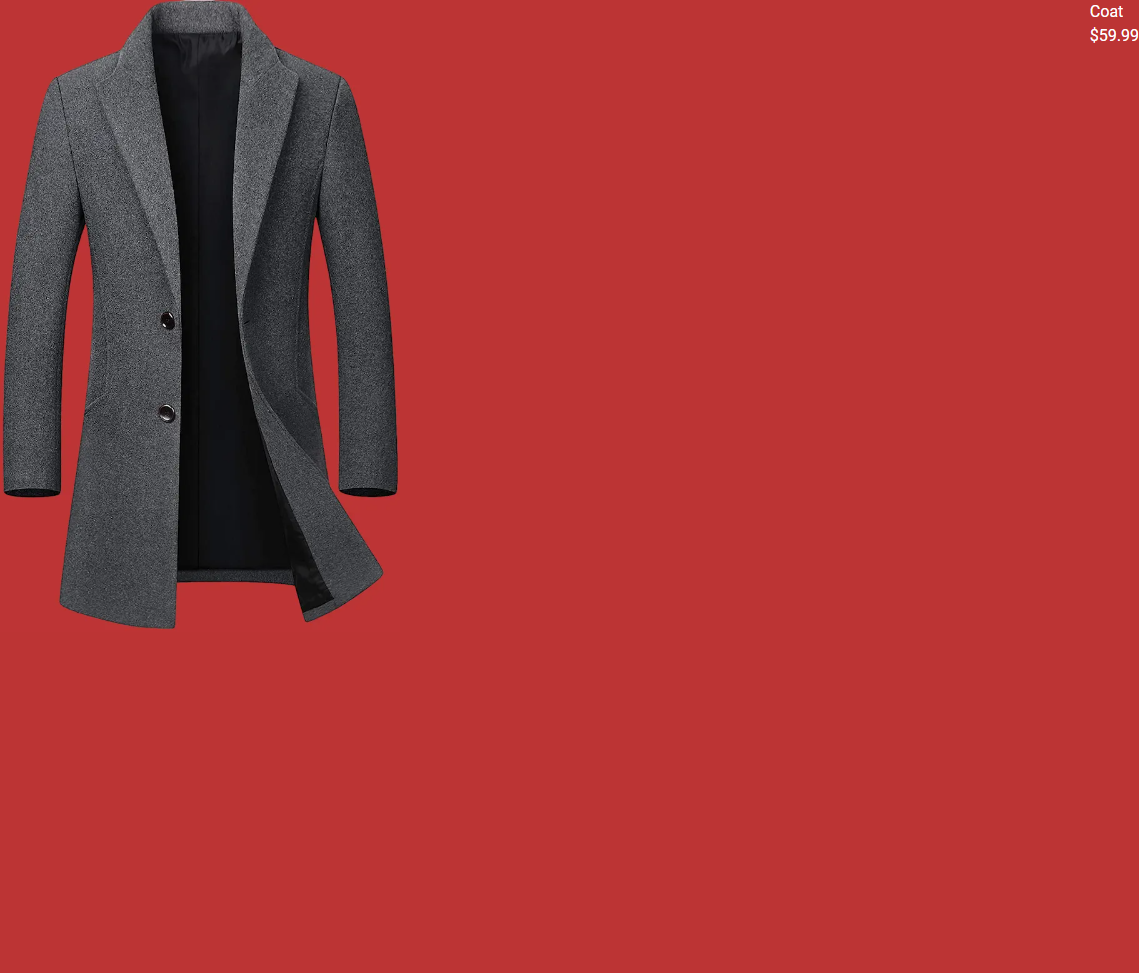
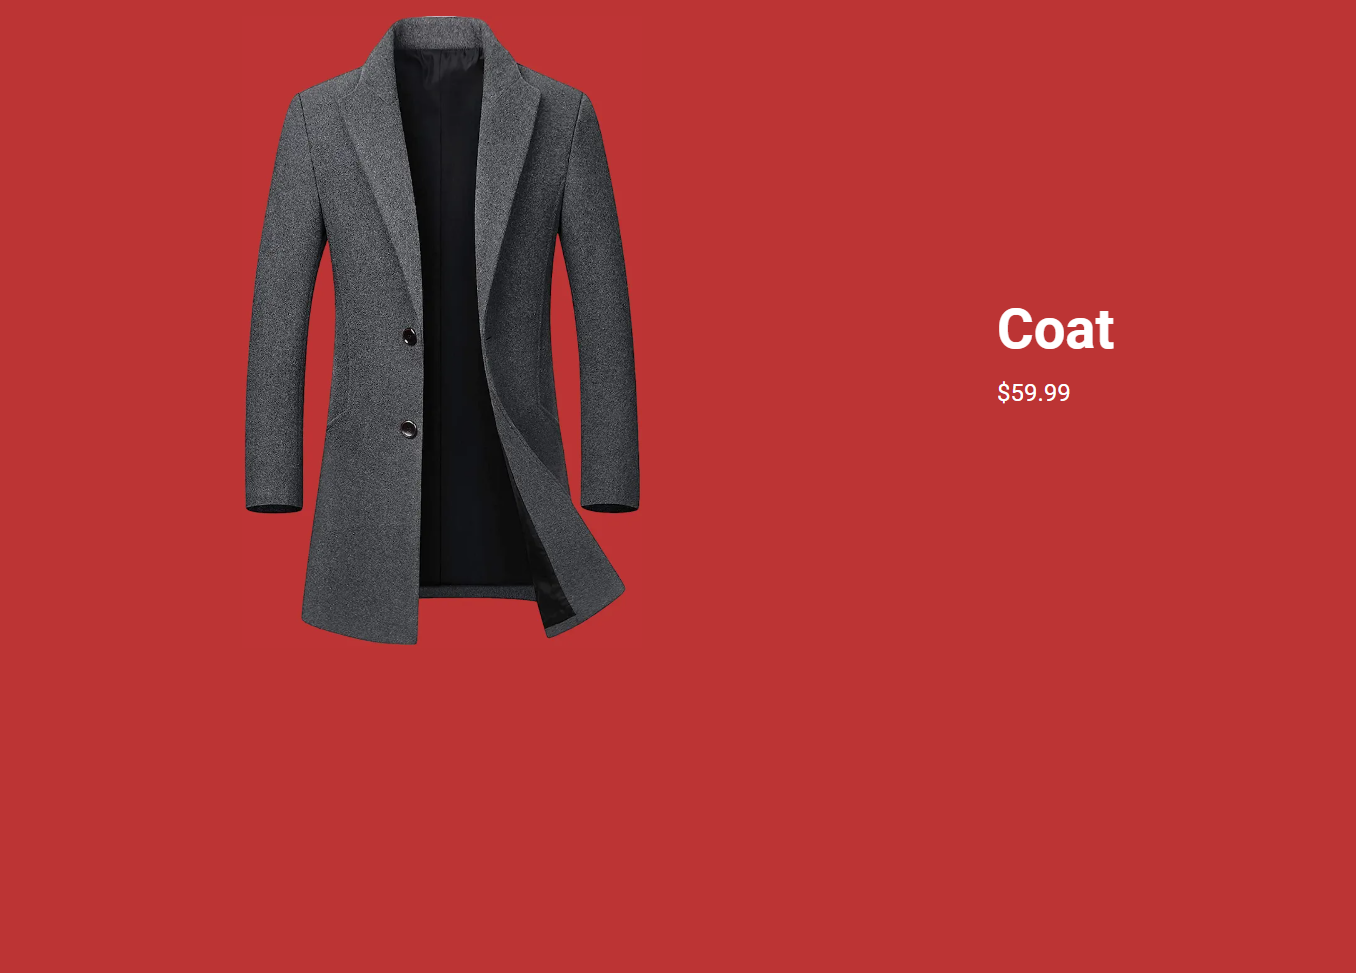
style:fe: prod-detail-pg has bigger font

Changed region(s): [[0.0, 0.0, 0.4917, 0.6783], [0.7375, 0.3083, 0.8297, 0.4317], [0.9526, 0.0, 1.0, 0.0617]]

diff --git a/frontend/src/app/globals.css b/frontend/src/app/globals.css
@@ -43,6 +43,24 @@ body {
   width: 100%;
 }
 
+h1 {
+  font-size: 4rem;
+  font-weight: 800;
+  margin-bottom: 0.25rem;
+}
+
+h2 {
+  font-size: 3.5rem;
+  font-weight: 700;
+  margin-bottom: 0.25rem;
+}
+
+h3 {
+  font-size: 3rem;
+  font-weight: 600;
+  margin-bottom: 0.25rem;
+}
+
 a {
   color: inherit;
   text-decoration: none;
@@ -57,4 +75,17 @@ button {
   font-size: 1.2rem;
   cursor: pointer;
   user-select: none;
+}
+
+::-webkit-scrollbar {
+  width: 12px;
+}
+
+::-webkit-scrollbar-thumb {
+  border: 2px solid hsla(0, 0%, 60%, 0.6);
+  border-radius: 20px;
+}
+
+::-webkit-scrollbar-thumb:hover {
+  border: 2px solid hsla(0, 0%, 70%, 0.9);
 }

diff --git a/frontend/src/app/(pages)/product/[id]/page.tsx b/frontend/src/app/(pages)/product/[id]/page.tsx
@@ -28,9 +28,9 @@ const ProductDetailSlug = (props: ProductDetailSlugProps) => {
                 height={0}
                 width={400}
               />
-              <div className='details'>
+              <div className={styles.details}>
                 <h2>{currProductData?.title}</h2>
-                <p>{currProductData?.price}</p>
+                <p className={styles.price}>{currProductData?.price}</p>
               </div>
             </>
           )

diff --git a/frontend/src/app/(pages)/product/[id]/page.module.css b/frontend/src/app/(pages)/product/[id]/page.module.css
@@ -1,9 +1,26 @@
-.product-detail-slug {
+div.product-detail-slug {
+
+  div.product-box {
+
+    div.details {
+      padding-top: 20vw;
+
+      p.price {
+        font-size: 1.5rem;
+      }
+    }
+  }
 
 }
 
-.product-box {
-  display: flex;
-  justify-content: space-between;
-  align-items: flex-start;
+
+
+
+@media (width > 800px ) {
+  .product-box {
+    display: flex;
+    justify-content: space-around;
+    align-items: flex-start;
+  }
+
 }

diff --git a/frontend/src/app/(pages)/layout.tsx b/frontend/src/app/(pages)/layout.tsx
@@ -1,4 +1,5 @@
 import type { Metadata } from 'next';
+import styles from "./layout.module.css";
 import '../globals.css';
 
 export const metadata: Metadata = {
@@ -13,7 +14,7 @@ export default function RootLayout({
 }) {
   return (
     <html lang="en">
-      <body>{children}</body>
+      <body className={styles.layout}>{children}</body>
     </html>
   )
 }

diff --git a/frontend/src/app/(pages)/layout.module.css b/frontend/src/app/(pages)/layout.module.css
@@ -1,0 +1,4 @@
+.layout {
+  padding: 1rem 4rem;
+  height: 100%;
+}
